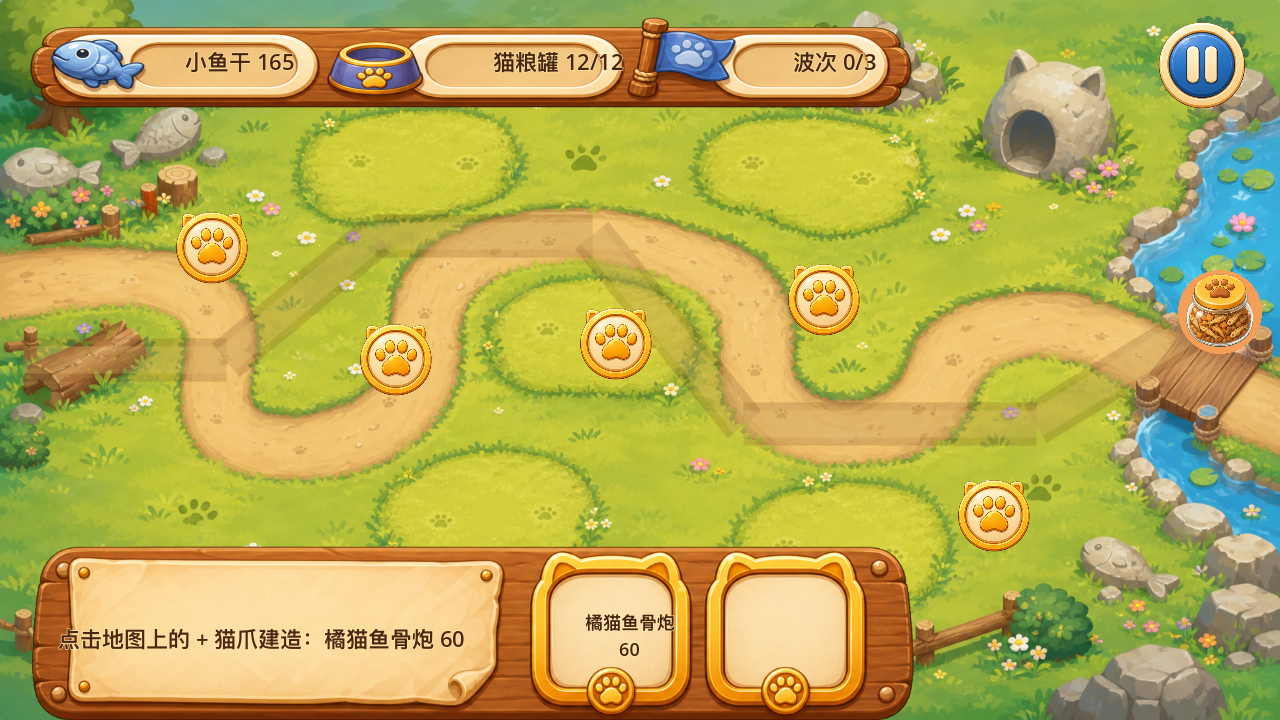
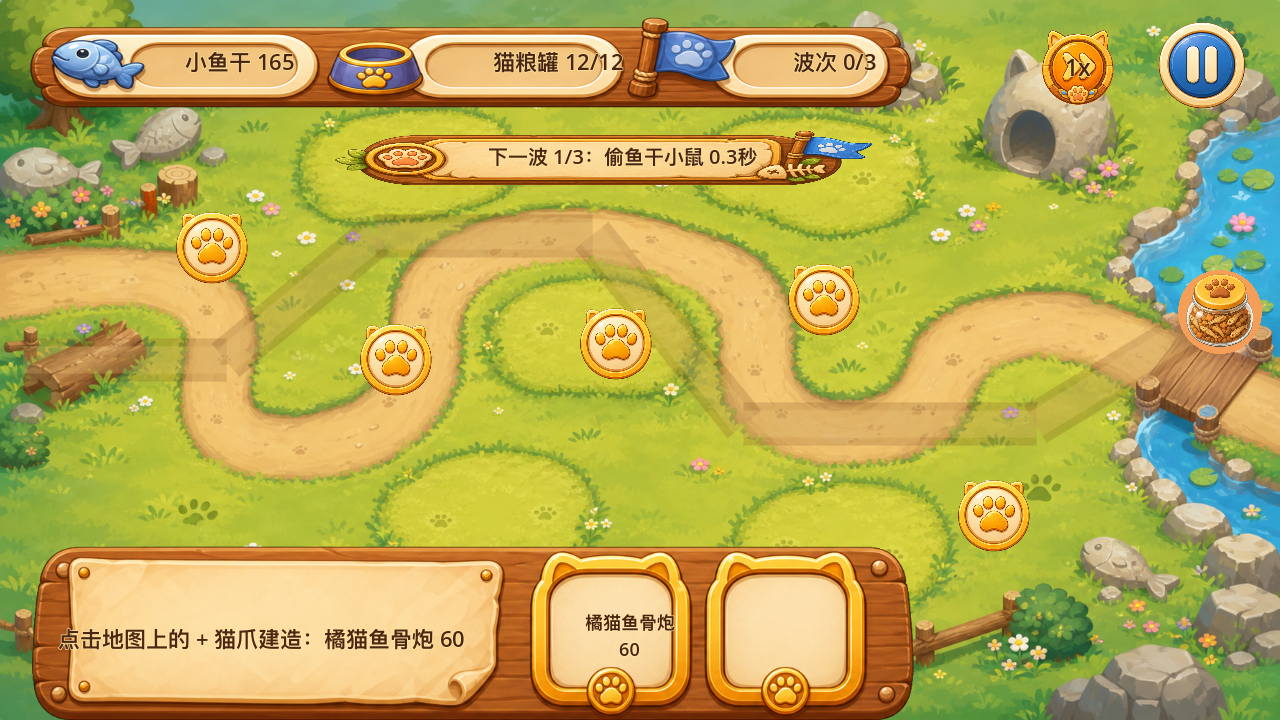
Add battle wave speed controls

Changed region(s): [[0.25, 0.1833, 0.6875, 0.275], [0.8125, 0.0306, 0.875, 0.1528]]

diff --git a/design-qa.md b/design-qa.md
@@ -160,4 +160,10 @@ final result: passed
 - Added `/Users/zhaok/cat/tests/run_progression_persistence_tests.gd` to verify fresh locks, save creation, reload restore, and next-level unlock behavior without touching the real player save.
 - Added `/Users/zhaok/cat/tests/capture_level_select_locked.gd` to regenerate `/Users/zhaok/cat/artifacts/level_select_locked.png`.
 
+**Battle Wave Preview And Speed Control**
+- Generated `/Users/zhaok/cat/assets/generated/ui/battle_wave_preview_chip.png` and `/Users/zhaok/cat/assets/generated/ui/battle_speed_button.png` as transparent Image2 HUD assets.
+- Added `WavePreviewFrame` and `WavePreviewLabel` to show the next/current wave enemy, count, and countdown without drawing a code panel.
+- Added `SpeedControlFrame`, `SpeedToggleButton`, and `SpeedMultiplierLabel` so players can toggle battle simulation between 1x and 2x with press feedback.
+- Added `/Users/zhaok/cat/tests/run_battle_speed_wave_tests.gd` to verify Image2 asset use, 1x/2x state, doubled process-time simulation, and live wave preview updates.
+
 final result: passed

diff --git a/artifacts/campaign_asset_inventory.md b/artifacts/campaign_asset_inventory.md
@@ -61,6 +61,10 @@ Final project assets are copied into categorized folders under `/Users/zhaok/cat
   Role: transparent pause button art used by `BattlePauseFrame`.
 - `battle_build_slot_marker`: `/Users/zhaok/cat/assets/generated/ui/battle_build_slot_marker.png`
   Role: transparent cat-paw build marker used by `BuildSlotNVisual` nodes.
+- `battle_wave_preview_chip`: `/Users/zhaok/cat/assets/generated/ui/battle_wave_preview_chip.png`
+  Role: transparent Image2 wave preview chip used by `WavePreviewFrame` for incoming enemy and countdown status.
+- `battle_speed_button`: `/Users/zhaok/cat/assets/generated/ui/battle_speed_button.png`
+  Role: transparent Image2 speed button used by `SpeedControlFrame` for 1x/2x battle speed.
 - `tower_action_panel`: `/Users/zhaok/cat/assets/generated/ui/tower_action_panel.png`
   Role: transparent Image2 tower management panel used by `TowerActionDesignPanel` for upgrade, sell, and close actions.
 - `battle_pause_menu_design_reference`: `/Users/zhaok/cat/assets/generated/ui/battle_pause_menu_design_reference.png`

diff --git a/README.md b/README.md
@@ -14,6 +14,7 @@
 - 敌人、塔、基地都有运行时动画反馈
 - 明确的地图 `+` 建造按钮，支持真实玩家点击建塔
 - 已建猫塔可点击打开 Image2 管理面板，支持升级和出售返还鱼干
+- 战斗 HUD 支持下一波敌人预告和 1x/2x 加速切换
 - 关卡解锁、最佳星级、小鱼干和奖励领取状态会持久化保存
 
 ## 运行
@@ -49,6 +50,7 @@ Godot --path /path/to/MeowDefense
 /Users/zhaok/Downloads/Godot.app/Contents/MacOS/Godot --headless --path /Users/zhaok/cat --script tests/run_town_feature_overlay_tests.gd
 /Users/zhaok/Downloads/Godot.app/Contents/MacOS/Godot --headless --path /Users/zhaok/cat --script tests/run_build_input_tests.gd
 /Users/zhaok/Downloads/Godot.app/Contents/MacOS/Godot --headless --path /Users/zhaok/cat --script tests/run_tower_action_tests.gd
+/Users/zhaok/Downloads/Godot.app/Contents/MacOS/Godot --headless --path /Users/zhaok/cat --script tests/run_battle_speed_wave_tests.gd
 /Users/zhaok/Downloads/Godot.app/Contents/MacOS/Godot --headless --path /Users/zhaok/cat --script tests/run_progression_persistence_tests.gd
 /Users/zhaok/Downloads/Godot.app/Contents/MacOS/Godot --headless --path /Users/zhaok/cat --script tests/run_pause_menu_tests.gd
 /Users/zhaok/Downloads/Godot.app/Contents/MacOS/Godot --headless --path /Users/zhaok/cat --script tests/run_result_screen_tests.gd

diff --git a/AGENTS.md b/AGENTS.md
@@ -81,6 +81,7 @@ Before calling work complete:
 /Users/zhaok/Downloads/Godot.app/Contents/MacOS/Godot --headless --path /Users/zhaok/cat --script tests/run_town_feature_overlay_tests.gd
 /Users/zhaok/Downloads/Godot.app/Contents/MacOS/Godot --headless --path /Users/zhaok/cat --script tests/run_build_input_tests.gd
 /Users/zhaok/Downloads/Godot.app/Contents/MacOS/Godot --headless --path /Users/zhaok/cat --script tests/run_tower_action_tests.gd
+/Users/zhaok/Downloads/Godot.app/Contents/MacOS/Godot --headless --path /Users/zhaok/cat --script tests/run_battle_speed_wave_tests.gd
 /Users/zhaok/Downloads/Godot.app/Contents/MacOS/Godot --headless --path /Users/zhaok/cat --script tests/run_progression_persistence_tests.gd
 /Users/zhaok/Downloads/Godot.app/Contents/MacOS/Godot --headless --path /Users/zhaok/cat --script tests/run_pause_menu_tests.gd
 /Users/zhaok/Downloads/Godot.app/Contents/MacOS/Godot --headless --path /Users/zhaok/cat --script tests/run_result_screen_tests.gd